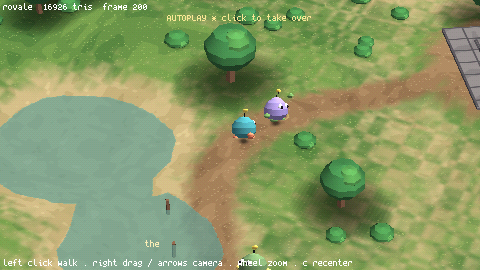
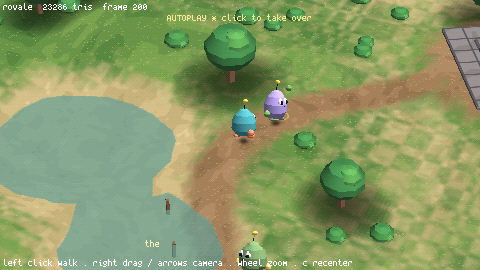
rovale playtest: permanent .spx sheets, apron z-fight fix, camera-facing billboards, edge-only click sfx
Four human verdicts ('exactly the vibe we would want' + fixes), D3D-027:
sprite sheets are committed RLE .spx assets (boot loads instantly,
game.rebake_sprites() rewrites, SPR_STAMP invalidates, read-only trees
rasterize in memory); the border apron rebuilt as non-overlapping
TILE-lattice bands (the corner strips z-fought — the shimmering
diagonal) with exact-bound edge clamps; billboards span camera right x
camera up so they never foreshorten under pitch (verified at 1.15);
click sfx fires on the press edge only. Tour trace verified
UNREGENERATED; both pixels re-shot deliberately; RO_BUDGET honesty cmp
re-proven; suite ALL GREEN.

Changed region(s): [[0.4688, 0.2963, 0.625, 0.5333], [0.4688, 0.8593, 0.5625, 1.0], [0.0938, 0.0, 0.125, 0.0296]]

diff --git a/docs/STATUS.md b/docs/STATUS.md
@@ -4,6 +4,27 @@ Living handoff doc. Update at session/milestone end. (Reset at the fork;
 cosmic2d's own status history lives in the upstream repo and
 `history/STATUS-2026-07.md`.)
 
+## 2026-07-17 (round 18 playtest) — sheets become assets; four verdicts in
+
+Human played rovale: **"exactly the vibe we would want"**, with four
+fixes, all landed. (1) **Sprite sheets are PERMANENT assets now**:
+spr.lua writes RLE-packed `.spx` files (committed, ~205KB each,
+projects/rovale/spr/) on first rasterize and boots load them instantly;
+`game.rebake_sprites()` re-rasterizes + rewrites (SPR_STAMP invalidates
+other checkouts; the suite's read-only store falls back to rasterizing).
+(2) **The shimmering diagonal west of the map**: the apron's corner
+strips overlapped coplanar and z-fought — rebuilt as four
+NON-overlapping bands on one TILE-step lattice (ring seams and the mesh
+edge share vertices exactly; W.terrain_h clamp went 0.01-inset -> exact
+bounds for the same reason). (3) **Billboards fully face the camera**
+(they foreshortened under pitch): quads now span camera right x camera
+up, feet-anchored — full size at any pitch, verified at pitch 1.15.
+(4) **Click sfx on the press EDGE only** — held-repeat re-commands
+silently (the sfx moved from player.command to main's edge path; demo
+clicks still tick). Trace verify PASS unregenerated through all four;
+both pixels re-shot (deliberate: billboards changed); the RO_BUDGET
+honesty cmp re-proven. Suite ALL GREEN.
+
 ## 2026-07-17 (round 18) — rovale: demo 3, the RO vale
 
 Two human verdicts opened the round: **the streaming demo "feels
@@ -32,10 +53,9 @@ the honesty cmp. Suite ALL GREEN; 3 shots on the feed.
 
 ## Exact next step
 
-1. Feed questions open (non-blocking): R18's (does the vale read as RO
-   at 480×270? chibi sprite proportions/size? click feel — marker,
-   held-repeat cadence? sand/shore band? pave deck read?); R17's and
-   earlier (see round 17's list below).
+1. R18 verdict landed: **"exactly the vibe we would want"** (the four
+   playtest fixes above are in). Feed questions still open
+   (non-blocking): R17's and earlier (see round 17's list below).
 2. **rovale grows on verdicts**; ungated candidates: cliff tiles (the
    GND sharp-edge model — forces the sprite depth-pull question),
    water texture cycle + vertex wave (recipe constants ready), a

diff --git a/docs/DECISIONS3D.md b/docs/DECISIONS3D.md
@@ -818,3 +818,30 @@ first, measured (bake ~4.8µs/texel → 5.7s/map, A* ~2.9ms worst, pick
   ray + walk-grid A* are engine-shaped (cm.walk?); billboards could join
   cm.gb; the sprite depth-pull PAL flag stayed unneeded (smooth vale +
   steep camera — revisit on cliffs).
+
+## D3D-027 — playtest: sprite sheets are committed assets; billboards fully face the camera (2026-07-17)
+
+Four rovale playtest verdicts ("exactly the vibe we would want" plus
+fixes), the two decision-shaped ones recorded:
+
+- **The figure→sprite bake outputs ASSETS, not boot work.** spr.lua
+  writes each rasterized sheet as a committed RLE `.spx` file
+  (projects/rovale/spr/, ~205KB each vs 466KB raw); boots load
+  instantly, `game.rebake_sprites()` re-rasterizes + rewrites, and
+  SPR_STAMP invalidates stale files in other checkouts (a read-only
+  tree — the suite's nix store — just rasterizes in memory). This is
+  the editor-era shape: bake is a button, the result is a file asset.
+- **Billboards span camera right × camera up** (feet-anchored), not
+  upright-Y: upright quads foreshorten under the pitched RO camera
+  ("they shrink when i angle the camera"). Full facing = full size at
+  any pitch; the top tips away from the eye like RO's lean-back, and
+  the smooth vale keeps the head end out of the terrain (the depth-pull
+  PAL flag stays unneeded — revisit on cliffs).
+- Also: the border apron rebuilt as non-overlapping TILE-lattice bands
+  (the overlapping corner strips z-fought — a shimmering diagonal);
+  W.terrain_h clamps to exact bounds; the click sfx fires on the press
+  edge only (held-repeat re-commands silently).
+- Proofs: rovale_tour.ctrace verified UNREGENERATED through all four
+  changes (sim untouched except the sfx call site, which the demo path
+  reproduces identically); both pixels re-shot deliberately; the
+  RO_BUDGET honesty cmp re-proven; suite ALL GREEN.

diff --git a/docs/COSMIC3D.md b/docs/COSMIC3D.md
@@ -383,6 +383,11 @@ games without the user hand rolling everything"** — the distillation
 phase (editor primitives + engine modules) begins when demo 3's slice
 is feel-approved. Demo 3's design is sketched in §11.
 
+**Playtest verdict on the round-18 build (2026-07-17, human): "exactly
+the vibe we would want"** — with four fixes, all landed same-day
+(permanent .spx sprite assets, the apron corner z-fight, fully
+camera-facing billboards, edge-only click sfx; see STATUS + D3D-026).
+
 ## 9. Body Harvest techniques (from ../body-harvest decomp, see notes there)
 
 An N64 open-world game whose whole huge terrain fits 4MB — directly relevant